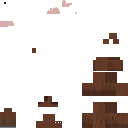
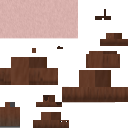
Make moose bigger

diff --git a/src/client/java/xen42/canadamod/entity/MooseEntityModel.java b/src/client/java/xen42/canadamod/entity/MooseEntityModel.java
@@ -27,41 +27,41 @@ public class MooseEntityModel extends EntityModel<MooseEntityRenderState> {
     public static TexturedModelData getTexturedModelData() {
 		ModelData modelData = new ModelData();
 		ModelPartData modelPartData = modelData.getRoot();
-		ModelPartData root = modelPartData.addChild("root", ModelPartBuilder.create().uv(82, 102).cuboid(-6.0F, -31.0F, -1.0F, 12.0F, 15.0F, 11.0F, new Dilation(0.0F))
-		.uv(93, 57).cuboid(-6.0F, -29.0F, 10.0F, 12.0F, 11.0F, 3.0F, new Dilation(0.0F))
-		.uv(103, 33).cuboid(-2.0F, -28.0F, 12.0F, 4.0F, 5.0F, 6.0F, new Dilation(0.0F))
-		.uv(82, 72).cuboid(-6.0F, -29.0F, -12.0F, 12.0F, 13.0F, 11.0F, new Dilation(0.0F))
-		.uv(0, 108).mirrored().cuboid(-6.0F, -16.0F, 5.0F, 4.0F, 16.0F, 4.0F, new Dilation(0.0F)).mirrored(false)
-		.uv(0, 108).cuboid(2.0F, -16.0F, 5.0F, 4.0F, 16.0F, 4.0F, new Dilation(0.0F))
-		.uv(0, 108).mirrored().cuboid(-6.0F, -16.0F, -11.0F, 4.0F, 16.0F, 4.0F, new Dilation(0.0F)).mirrored(false)
-		.uv(0, 108).cuboid(2.0F, -16.0F, -11.0F, 4.0F, 16.0F, 4.0F, new Dilation(0.0F)), ModelTransform.of(0.0F, 24.0F, 0.0F, 0.0F, 3.1416F, 0.0F));
+		ModelPartData root = modelPartData.addChild("root", ModelPartBuilder.create().uv(0, 57).cuboid(-9.0F, -38.0F, -1.0F, 18.0F, 17.0F, 11.0F, new Dilation(0.0F))
+		.uv(86, 51).cuboid(-7.0F, -37.0F, 10.0F, 14.0F, 14.0F, 3.0F, new Dilation(0.0F))
+		.uv(100, 33).cuboid(-4.0F, -35.0F, 12.0F, 8.0F, 7.0F, 6.0F, new Dilation(0.0F))
+		.uv(62, 70).cuboid(-8.0F, -36.0F, -18.0F, 16.0F, 15.0F, 17.0F, new Dilation(0.0F))
+		.uv(0, 102).mirrored().cuboid(-8.0F, -21.0F, 4.0F, 5.0F, 21.0F, 5.0F, new Dilation(0.0F)).mirrored(false)
+		.uv(0, 102).cuboid(3.0F, -21.0F, 4.0F, 5.0F, 21.0F, 5.0F, new Dilation(0.0F))
+		.uv(0, 102).mirrored().cuboid(-8.0F, -21.0F, -16.0F, 5.0F, 21.0F, 5.0F, new Dilation(0.0F)).mirrored(false)
+		.uv(0, 102).cuboid(3.0F, -21.0F, -16.0F, 5.0F, 21.0F, 5.0F, new Dilation(0.0F)), ModelTransform.of(0.0F, 24.0F, 0.0F, 0.0F, 3.1416F, 0.0F));
 
-		ModelPartData tail_r1 = root.addChild("tail_r1", ModelPartBuilder.create().uv(32, 48).cuboid(-2.0F, 0.0F, 0.0F, 4.0F, 5.0F, 0.0F, new Dilation(0.0F)), ModelTransform.of(0.0F, -26.0F, -12.0F, -0.4363F, 0.0F, 0.0F));
+		ModelPartData tail_r1 = root.addChild("tail_r1", ModelPartBuilder.create().uv(32, 48).cuboid(-2.0F, -4.5315F, -2.1131F, 4.0F, 5.0F, 0.0F, new Dilation(0.0F)), ModelTransform.of(0.0F, -26.0F, -18.0F, -0.4363F, 0.0F, 0.0F));
 
-		ModelPartData head = root.addChild("head", ModelPartBuilder.create().uv(38, 116).cuboid(-3.0F, -3.0F, -1.0F, 6.0F, 6.0F, 5.0F, new Dilation(0.0F))
-		.uv(38, 96).cuboid(-2.0F, -1.0F, 4.0F, 4.0F, 4.0F, 6.0F, new Dilation(0.0F))
-		.uv(2, 2).cuboid(-3.0F, -5.0F, -1.0F, 2.0F, 2.0F, 0.0F, new Dilation(0.0F))
-		.uv(2, 2).cuboid(1.0F, -5.0F, -1.0F, 2.0F, 2.0F, 0.0F, new Dilation(0.0F))
-		.uv(0, 21).cuboid(-5.0F, -2.0F, 0.0F, 2.0F, 1.0F, 2.0F, new Dilation(0.0F))
-		.uv(1, 21).cuboid(3.0F, -2.0F, 0.0F, 2.0F, 1.0F, 2.0F, new Dilation(0.0F)), ModelTransform.of(0.0F, -26.0F, 16.0F, -0.1745F, 0.0F, 0.0F));
+		ModelPartData head = root.addChild("head", ModelPartBuilder.create().uv(33, 112).cuboid(-5.0F, -7.924F, -4.8682F, 10.0F, 8.0F, 8.0F, new Dilation(0.0F))
+		.uv(36, 95).cuboid(-3.0F, -5.924F, 3.1318F, 6.0F, 5.0F, 7.0F, new Dilation(0.0F))
+		.uv(57, 46).cuboid(-4.0F, -9.924F, -1.8682F, 2.0F, 2.0F, 1.0F, new Dilation(0.0F))
+		.uv(57, 46).cuboid(2.0F, -9.924F, -1.8682F, 2.0F, 2.0F, 1.0F, new Dilation(0.0F))
+		.uv(0, 21).cuboid(-5.0F, -6.924F, -0.8682F, 2.0F, 1.0F, 2.0F, new Dilation(0.0F))
+		.uv(1, 21).cuboid(3.0F, -6.924F, -0.8682F, 2.0F, 1.0F, 2.0F, new Dilation(0.0F)), ModelTransform.of(0.0F, -27.0F, 21.0F, -0.1745F, 0.0F, 0.0F));
 
-		ModelPartData antler = head.addChild("antler", ModelPartBuilder.create().uv(-6, 21).cuboid(-8.0F, -2.0F, -1.0F, 8.0F, 2.0F, 2.0F, new Dilation(0.0F))
-		.uv(-4, 21).cuboid(-8.0F, -4.0F, -2.0F, 6.0F, 3.0F, 2.0F, new Dilation(0.0F))
-		.uv(1, 21).cuboid(-9.0F, -5.0F, -2.0F, 1.0F, 4.0F, 2.0F, new Dilation(0.0F))
-		.uv(1, 21).cuboid(-3.0F, -7.0F, -2.0F, 1.0F, 3.0F, 2.0F, new Dilation(0.0F))
-		.uv(1, 21).cuboid(-5.0F, -7.0F, -2.0F, 1.0F, 3.0F, 2.0F, new Dilation(0.0F))
-		.uv(1, 21).cuboid(-7.0F, -6.0F, -2.0F, 1.0F, 2.0F, 2.0F, new Dilation(0.0F))
-		.uv(1, 21).cuboid(-4.0F, -6.0F, -2.0F, 1.0F, 2.0F, 2.0F, new Dilation(0.0F))
-		.uv(1, 21).cuboid(-6.0F, -5.0F, -2.0F, 1.0F, 1.0F, 2.0F, new Dilation(0.0F)), ModelTransform.origin(-2.0F, 0.0F, 1.0F));
+		ModelPartData antler = head.addChild("antler", ModelPartBuilder.create().uv(0, 13).cuboid(-8.0F, -6.924F, -1.8682F, 8.0F, 2.0F, 2.0F, new Dilation(0.0F))
+		.uv(50, 19).cuboid(-8.0F, -8.924F, -2.8682F, 6.0F, 3.0F, 2.0F, new Dilation(0.0F))
+		.uv(25, 30).cuboid(-9.0F, -9.924F, -2.8682F, 1.0F, 4.0F, 2.0F, new Dilation(0.0F))
+		.uv(0, 28).cuboid(-3.0F, -11.924F, -2.8682F, 1.0F, 3.0F, 2.0F, new Dilation(0.0F))
+		.uv(14, 30).cuboid(-5.0F, -11.924F, -2.8682F, 1.0F, 3.0F, 2.0F, new Dilation(0.0F))
+		.uv(0, 9).cuboid(-7.0F, -10.924F, -2.8682F, 1.0F, 2.0F, 2.0F, new Dilation(0.0F))
+		.uv(0, 32).cuboid(-4.0F, -10.924F, -2.8682F, 1.0F, 2.0F, 2.0F, new Dilation(0.0F))
+		.uv(21, 14).cuboid(-6.0F, -9.924F, -2.8682F, 1.0F, 1.0F, 2.0F, new Dilation(0.0F)), ModelTransform.origin(-5.0F, 0.0F, 1.0F));
 
-		ModelPartData antler2 = head.addChild("antler2", ModelPartBuilder.create().uv(-5, 21).cuboid(-7.0F, -2.0F, -1.0F, 8.0F, 2.0F, 2.0F, new Dilation(0.0F))
-		.uv(-4, 21).cuboid(-5.0F, -4.0F, -2.0F, 6.0F, 3.0F, 2.0F, new Dilation(0.0F))
-		.uv(1, 21).cuboid(1.0F, -5.0F, -2.0F, 1.0F, 4.0F, 2.0F, new Dilation(0.0F))
-		.uv(1, 21).cuboid(-3.0F, -7.0F, -2.0F, 1.0F, 3.0F, 2.0F, new Dilation(0.0F))
-		.uv(1, 21).cuboid(-5.0F, -7.0F, -2.0F, 1.0F, 3.0F, 2.0F, new Dilation(0.0F))
-		.uv(1, 21).cuboid(-1.0F, -6.0F, -2.0F, 1.0F, 2.0F, 2.0F, new Dilation(0.0F))
-		.uv(1, 21).cuboid(-4.0F, -6.0F, -2.0F, 1.0F, 2.0F, 2.0F, new Dilation(0.0F))
-		.uv(1, 21).cuboid(-2.0F, -5.0F, -2.0F, 1.0F, 1.0F, 2.0F, new Dilation(0.0F)), ModelTransform.origin(9.0F, 0.0F, 1.0F));
+		ModelPartData antler2 = head.addChild("antler2", ModelPartBuilder.create().uv(0, 13).cuboid(-7.0F, -6.924F, -1.8682F, 8.0F, 2.0F, 2.0F, new Dilation(0.0F))
+		.uv(50, 19).cuboid(-5.0F, -8.924F, -2.8682F, 6.0F, 3.0F, 2.0F, new Dilation(0.0F))
+		.uv(0, 11).cuboid(1.0F, -9.924F, -2.8682F, 1.0F, 4.0F, 2.0F, new Dilation(0.0F))
+		.uv(35, 15).cuboid(-3.0F, -11.924F, -2.8682F, 1.0F, 3.0F, 2.0F, new Dilation(0.0F))
+		.uv(49, 29).cuboid(-5.0F, -11.924F, -2.8682F, 1.0F, 3.0F, 2.0F, new Dilation(0.0F))
+		.uv(20, 22).cuboid(-1.0F, -10.924F, -2.8682F, 1.0F, 2.0F, 2.0F, new Dilation(0.0F))
+		.uv(40, 31).cuboid(-4.0F, -10.924F, -2.8682F, 1.0F, 2.0F, 2.0F, new Dilation(0.0F))
+		.uv(28, 23).cuboid(-2.0F, -9.924F, -2.8682F, 1.0F, 1.0F, 2.0F, new Dilation(0.0F)), ModelTransform.origin(12.0F, 0.0F, 1.0F));
 		return TexturedModelData.of(modelData, 128, 128);
 	}
 }

diff --git a/blockbench/moose.java b/blockbench/moose.java
@@ -15,41 +15,41 @@ public class moose extends EntityModel<Entity> {
 	public static TexturedModelData getTexturedModelData() {
 		ModelData modelData = new ModelData();
 		ModelPartData modelPartData = modelData.getRoot();
-		ModelPartData root = modelPartData.addChild("root", ModelPartBuilder.create().uv(82, 102).cuboid(-6.0F, -31.0F, -1.0F, 12.0F, 15.0F, 11.0F, new Dilation(0.0F))
-		.uv(93, 57).cuboid(-6.0F, -29.0F, 10.0F, 12.0F, 11.0F, 3.0F, new Dilation(0.0F))
-		.uv(103, 33).cuboid(-2.0F, -28.0F, 12.0F, 4.0F, 5.0F, 6.0F, new Dilation(0.0F))
-		.uv(82, 72).cuboid(-6.0F, -29.0F, -12.0F, 12.0F, 13.0F, 11.0F, new Dilation(0.0F))
-		.uv(0, 108).mirrored().cuboid(-6.0F, -16.0F, 5.0F, 4.0F, 16.0F, 4.0F, new Dilation(0.0F)).mirrored(false)
-		.uv(0, 108).cuboid(2.0F, -16.0F, 5.0F, 4.0F, 16.0F, 4.0F, new Dilation(0.0F))
-		.uv(0, 108).mirrored().cuboid(-6.0F, -16.0F, -11.0F, 4.0F, 16.0F, 4.0F, new Dilation(0.0F)).mirrored(false)
-		.uv(0, 108).cuboid(2.0F, -16.0F, -11.0F, 4.0F, 16.0F, 4.0F, new Dilation(0.0F)), ModelTransform.of(0.0F, 24.0F, 0.0F, 0.0F, 3.1416F, 0.0F));
+		ModelPartData root = modelPartData.addChild("root", ModelPartBuilder.create().uv(0, 57).cuboid(-9.0F, -38.0F, -1.0F, 18.0F, 17.0F, 11.0F, new Dilation(0.0F))
+		.uv(86, 51).cuboid(-7.0F, -37.0F, 10.0F, 14.0F, 14.0F, 3.0F, new Dilation(0.0F))
+		.uv(100, 33).cuboid(-4.0F, -35.0F, 12.0F, 8.0F, 7.0F, 6.0F, new Dilation(0.0F))
+		.uv(62, 70).cuboid(-8.0F, -36.0F, -18.0F, 16.0F, 15.0F, 17.0F, new Dilation(0.0F))
+		.uv(0, 102).mirrored().cuboid(-8.0F, -21.0F, 4.0F, 5.0F, 21.0F, 5.0F, new Dilation(0.0F)).mirrored(false)
+		.uv(0, 102).cuboid(3.0F, -21.0F, 4.0F, 5.0F, 21.0F, 5.0F, new Dilation(0.0F))
+		.uv(0, 102).mirrored().cuboid(-8.0F, -21.0F, -16.0F, 5.0F, 21.0F, 5.0F, new Dilation(0.0F)).mirrored(false)
+		.uv(0, 102).cuboid(3.0F, -21.0F, -16.0F, 5.0F, 21.0F, 5.0F, new Dilation(0.0F)), ModelTransform.of(0.0F, 24.0F, 0.0F, 0.0F, 3.1416F, 0.0F));
 
-		ModelPartData tail_r1 = root.addChild("tail_r1", ModelPartBuilder.create().uv(32, 48).cuboid(-2.0F, 0.0F, 0.0F, 4.0F, 5.0F, 0.0F, new Dilation(0.0F)), ModelTransform.of(0.0F, -26.0F, -12.0F, -0.4363F, 0.0F, 0.0F));
+		ModelPartData tail_r1 = root.addChild("tail_r1", ModelPartBuilder.create().uv(32, 48).cuboid(-2.0F, -4.5315F, -2.1131F, 4.0F, 5.0F, 0.0F, new Dilation(0.0F)), ModelTransform.of(0.0F, -26.0F, -18.0F, -0.4363F, 0.0F, 0.0F));
 
-		ModelPartData head = root.addChild("head", ModelPartBuilder.create().uv(38, 116).cuboid(-3.0F, -3.0F, -1.0F, 6.0F, 6.0F, 5.0F, new Dilation(0.0F))
-		.uv(38, 96).cuboid(-2.0F, -1.0F, 4.0F, 4.0F, 4.0F, 6.0F, new Dilation(0.0F))
-		.uv(2, 2).cuboid(-3.0F, -5.0F, -1.0F, 2.0F, 2.0F, 0.0F, new Dilation(0.0F))
-		.uv(2, 2).cuboid(1.0F, -5.0F, -1.0F, 2.0F, 2.0F, 0.0F, new Dilation(0.0F))
-		.uv(0, 21).cuboid(-5.0F, -2.0F, 0.0F, 2.0F, 1.0F, 2.0F, new Dilation(0.0F))
-		.uv(1, 21).cuboid(3.0F, -2.0F, 0.0F, 2.0F, 1.0F, 2.0F, new Dilation(0.0F)), ModelTransform.of(0.0F, -26.0F, 16.0F, -0.1745F, 0.0F, 0.0F));
+		ModelPartData head = root.addChild("head", ModelPartBuilder.create().uv(33, 112).cuboid(-5.0F, -7.924F, -4.8682F, 10.0F, 8.0F, 8.0F, new Dilation(0.0F))
+		.uv(36, 95).cuboid(-3.0F, -5.924F, 3.1318F, 6.0F, 5.0F, 7.0F, new Dilation(0.0F))
+		.uv(57, 46).cuboid(-4.0F, -9.924F, -1.8682F, 2.0F, 2.0F, 1.0F, new Dilation(0.0F))
+		.uv(57, 46).cuboid(2.0F, -9.924F, -1.8682F, 2.0F, 2.0F, 1.0F, new Dilation(0.0F))
+		.uv(0, 21).cuboid(-5.0F, -6.924F, -0.8682F, 2.0F, 1.0F, 2.0F, new Dilation(0.0F))
+		.uv(1, 21).cuboid(3.0F, -6.924F, -0.8682F, 2.0F, 1.0F, 2.0F, new Dilation(0.0F)), ModelTransform.of(0.0F, -27.0F, 21.0F, -0.1745F, 0.0F, 0.0F));
 
-		ModelPartData antler = head.addChild("antler", ModelPartBuilder.create().uv(-6, 21).cuboid(-8.0F, -2.0F, -1.0F, 8.0F, 2.0F, 2.0F, new Dilation(0.0F))
-		.uv(-4, 21).cuboid(-8.0F, -4.0F, -2.0F, 6.0F, 3.0F, 2.0F, new Dilation(0.0F))
-		.uv(1, 21).cuboid(-9.0F, -5.0F, -2.0F, 1.0F, 4.0F, 2.0F, new Dilation(0.0F))
-		.uv(1, 21).cuboid(-3.0F, -7.0F, -2.0F, 1.0F, 3.0F, 2.0F, new Dilation(0.0F))
-		.uv(1, 21).cuboid(-5.0F, -7.0F, -2.0F, 1.0F, 3.0F, 2.0F, new Dilation(0.0F))
-		.uv(1, 21).cuboid(-7.0F, -6.0F, -2.0F, 1.0F, 2.0F, 2.0F, new Dilation(0.0F))
-		.uv(1, 21).cuboid(-4.0F, -6.0F, -2.0F, 1.0F, 2.0F, 2.0F, new Dilation(0.0F))
-		.uv(1, 21).cuboid(-6.0F, -5.0F, -2.0F, 1.0F, 1.0F, 2.0F, new Dilation(0.0F)), ModelTransform.pivot(-2.0F, 0.0F, 1.0F));
+		ModelPartData antler = head.addChild("antler", ModelPartBuilder.create().uv(0, 13).cuboid(-8.0F, -6.924F, -1.8682F, 8.0F, 2.0F, 2.0F, new Dilation(0.0F))
+		.uv(50, 19).cuboid(-8.0F, -8.924F, -2.8682F, 6.0F, 3.0F, 2.0F, new Dilation(0.0F))
+		.uv(25, 30).cuboid(-9.0F, -9.924F, -2.8682F, 1.0F, 4.0F, 2.0F, new Dilation(0.0F))
+		.uv(0, 28).cuboid(-3.0F, -11.924F, -2.8682F, 1.0F, 3.0F, 2.0F, new Dilation(0.0F))
+		.uv(14, 30).cuboid(-5.0F, -11.924F, -2.8682F, 1.0F, 3.0F, 2.0F, new Dilation(0.0F))
+		.uv(0, 9).cuboid(-7.0F, -10.924F, -2.8682F, 1.0F, 2.0F, 2.0F, new Dilation(0.0F))
+		.uv(0, 32).cuboid(-4.0F, -10.924F, -2.8682F, 1.0F, 2.0F, 2.0F, new Dilation(0.0F))
+		.uv(21, 14).cuboid(-6.0F, -9.924F, -2.8682F, 1.0F, 1.0F, 2.0F, new Dilation(0.0F)), ModelTransform.pivot(-5.0F, 0.0F, 1.0F));
 
-		ModelPartData antler2 = head.addChild("antler2", ModelPartBuilder.create().uv(-5, 21).cuboid(-7.0F, -2.0F, -1.0F, 8.0F, 2.0F, 2.0F, new Dilation(0.0F))
-		.uv(-4, 21).cuboid(-5.0F, -4.0F, -2.0F, 6.0F, 3.0F, 2.0F, new Dilation(0.0F))
-		.uv(1, 21).cuboid(1.0F, -5.0F, -2.0F, 1.0F, 4.0F, 2.0F, new Dilation(0.0F))
-		.uv(1, 21).cuboid(-3.0F, -7.0F, -2.0F, 1.0F, 3.0F, 2.0F, new Dilation(0.0F))
-		.uv(1, 21).cuboid(-5.0F, -7.0F, -2.0F, 1.0F, 3.0F, 2.0F, new Dilation(0.0F))
-		.uv(1, 21).cuboid(-1.0F, -6.0F, -2.0F, 1.0F, 2.0F, 2.0F, new Dilation(0.0F))
-		.uv(1, 21).cuboid(-4.0F, -6.0F, -2.0F, 1.0F, 2.0F, 2.0F, new Dilation(0.0F))
-		.uv(1, 21).cuboid(-2.0F, -5.0F, -2.0F, 1.0F, 1.0F, 2.0F, new Dilation(0.0F)), ModelTransform.pivot(9.0F, 0.0F, 1.0F));
+		ModelPartData antler2 = head.addChild("antler2", ModelPartBuilder.create().uv(0, 13).cuboid(-7.0F, -6.924F, -1.8682F, 8.0F, 2.0F, 2.0F, new Dilation(0.0F))
+		.uv(50, 19).cuboid(-5.0F, -8.924F, -2.8682F, 6.0F, 3.0F, 2.0F, new Dilation(0.0F))
+		.uv(0, 11).cuboid(1.0F, -9.924F, -2.8682F, 1.0F, 4.0F, 2.0F, new Dilation(0.0F))
+		.uv(35, 15).cuboid(-3.0F, -11.924F, -2.8682F, 1.0F, 3.0F, 2.0F, new Dilation(0.0F))
+		.uv(49, 29).cuboid(-5.0F, -11.924F, -2.8682F, 1.0F, 3.0F, 2.0F, new Dilation(0.0F))
+		.uv(20, 22).cuboid(-1.0F, -10.924F, -2.8682F, 1.0F, 2.0F, 2.0F, new Dilation(0.0F))
+		.uv(40, 31).cuboid(-4.0F, -10.924F, -2.8682F, 1.0F, 2.0F, 2.0F, new Dilation(0.0F))
+		.uv(28, 23).cuboid(-2.0F, -9.924F, -2.8682F, 1.0F, 1.0F, 2.0F, new Dilation(0.0F)), ModelTransform.pivot(12.0F, 0.0F, 1.0F));
 		return TexturedModelData.of(modelData, 128, 128);
 	}
 	@Override
